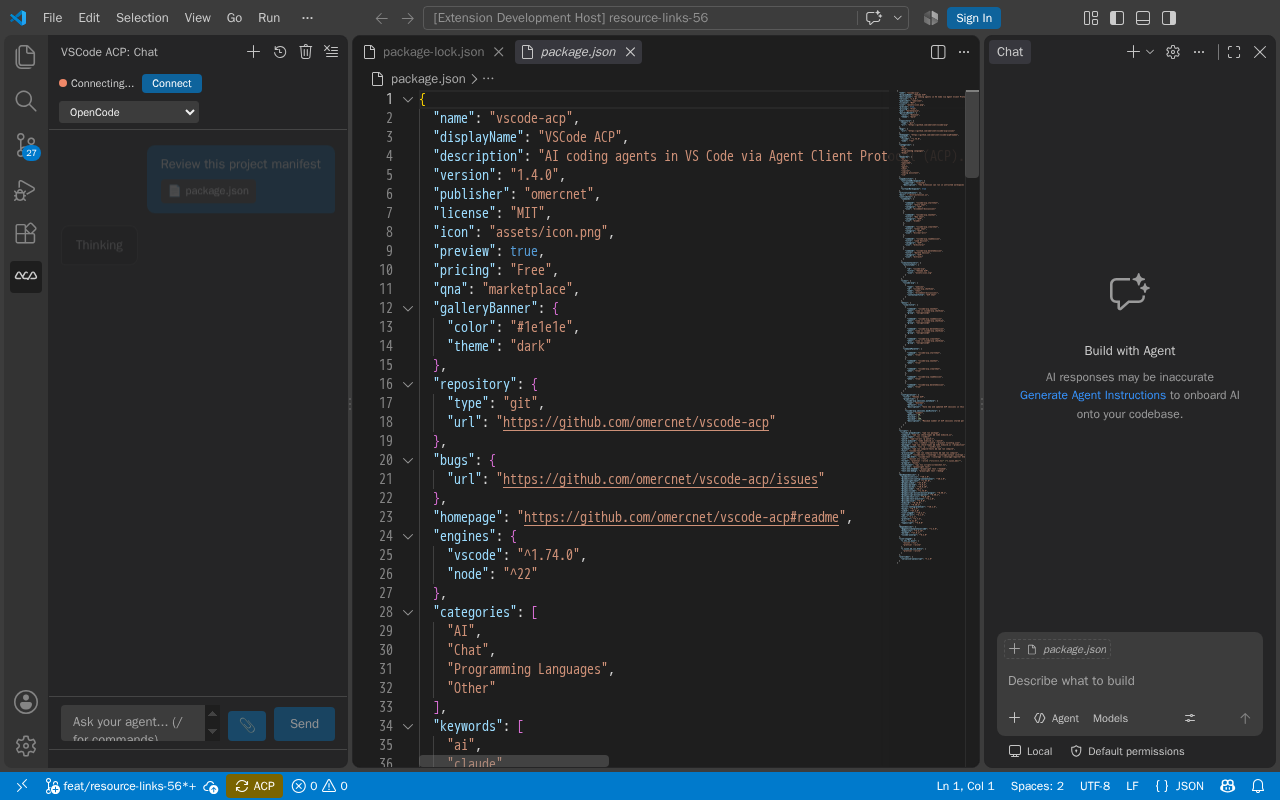
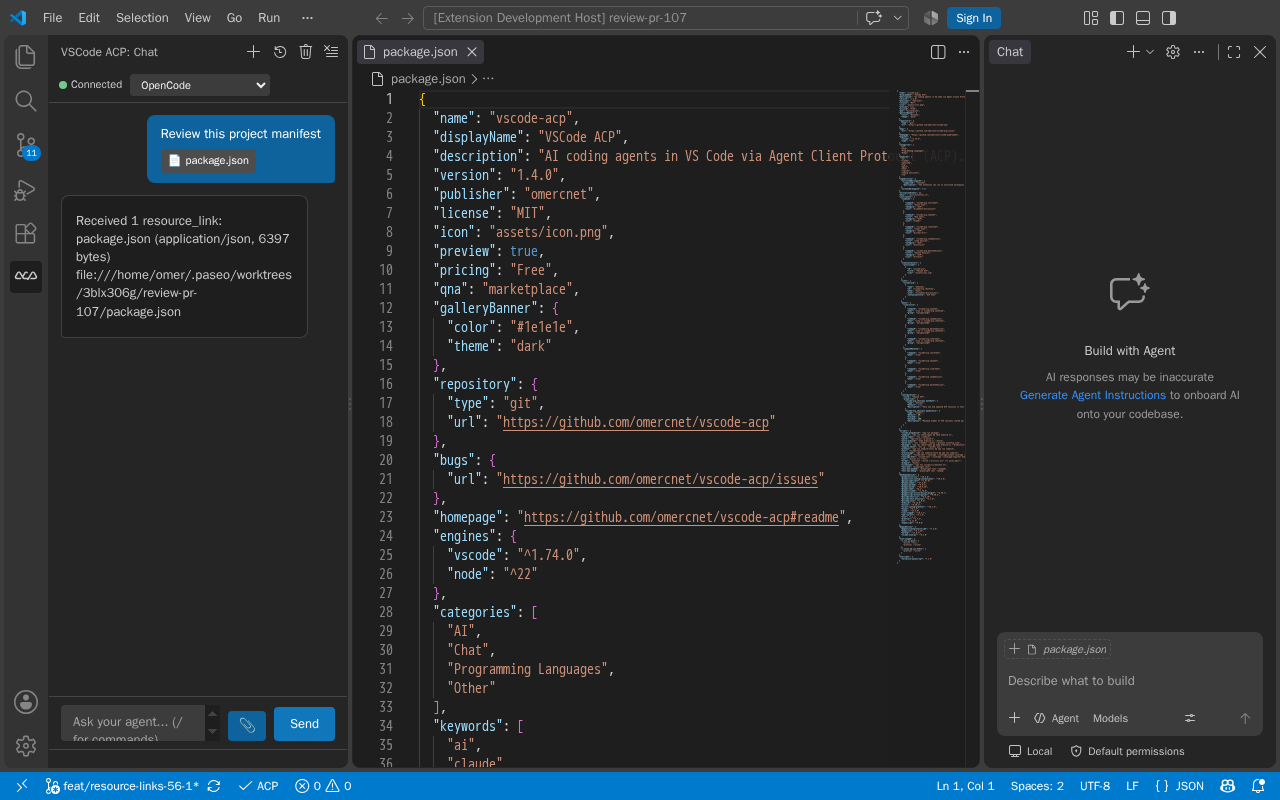
fix(chat): drop attachment draft when the composer reloads
The extension host kept `pendingAttachments` after the composer webview was
recreated, so a reloaded chat showed no chips while the host still counted the
orphaned files against the 10-file budget: reselecting the same file was
silently rejected as a duplicate ("1 file was not attached.") and a full draft
locked attachments out entirely until the next send or new chat.

Clear the draft when a freshly loaded webview announces `ready`.

Also replace the disconnected attachment e2e (which produced screenshots of a
"Disconnected"/"Connecting..." chat and never reached the agent) with a test
that runs against a real ACP agent in the Extension Development Host, asserts
the exact `session/prompt` wire blocks (text first, then `resource_link` with
canonical file URI, name, MIME type and byte size, no file contents), and
regenerates both screenshots from a connected session with the agent's
acknowledgement visible.

diff --git a/e2e/resource-link.spec.ts b/e2e/resource-link.spec.ts
@@ -1,0 +1,257 @@
+import {
+  test,
+  expect,
+  _electron as electron,
+  type Page,
+} from "@playwright/test";
+import { mkdir, readFile, rm, writeFile } from "fs/promises";
+import { delimiter, join } from "path";
+import {
+  cmdOrCtrl,
+  findVSCodeExecutable,
+  PROJECT_ROOT,
+  VSCODE_TEST_DIR,
+} from "./utils";
+
+const SCREENSHOTS_DIR = join(PROJECT_ROOT, "screenshots");
+const DEMO_DIR = join(VSCODE_TEST_DIR, "resource-link-demo");
+const USER_DATA_DIR = join(VSCODE_TEST_DIR, "user-data-resource-link");
+const WIRE_PATH = join(DEMO_DIR, "wire.json");
+const BIN_DIR = join(DEMO_DIR, "bin");
+const AGENT_PATH = join(BIN_DIR, "opencode");
+
+/**
+ * Minimal ACP agent that records every `session/prompt` payload it receives
+ * and echoes the resource links back, so the webview shows a real
+ * agent acknowledgement of the attachment rather than a pending spinner.
+ */
+const AGENT_SOURCE = `#!/usr/bin/env node
+const fs = require("fs");
+const wirePath = process.env.VSCODE_ACP_WIRE_LOG;
+const send = (message) => process.stdout.write(JSON.stringify(message) + "\\n");
+const update = (sessionId, update) => send({ jsonrpc: "2.0", method: "session/update", params: { sessionId, update } });
+let buffer = "";
+process.stdin.on("data", (chunk) => {
+  buffer += chunk;
+  const lines = buffer.split("\\n");
+  buffer = lines.pop() || "";
+  for (const line of lines) {
+    if (!line.trim()) continue;
+    const message = JSON.parse(line);
+    const params = message.params || {};
+    if (message.method === "initialize") {
+      send({ jsonrpc: "2.0", id: message.id, result: { protocolVersion: 1, agentCapabilities: {} } });
+    } else if (message.method === "session/new") {
+      send({ jsonrpc: "2.0", id: message.id, result: { sessionId: "resource-link-demo", modes: null } });
+    } else if (message.method === "session/prompt") {
+      const prompt = params.prompt || [];
+      const log = fs.existsSync(wirePath) ? JSON.parse(fs.readFileSync(wirePath, "utf8")) : [];
+      log.push(prompt);
+      fs.writeFileSync(wirePath, JSON.stringify(log, null, 2));
+      const links = prompt.filter((block) => block.type === "resource_link");
+      const reply = links.length
+        ? "Received " + links.length + " resource_link: " + links.map((link) => link.name + " (" + link.mimeType + ", " + link.size + " bytes) " + link.uri).join("; ")
+        : "Received no resource links";
+      update(params.sessionId, { sessionUpdate: "agent_message_chunk", messageId: "agent-1", content: { type: "text", text: reply } });
+      send({ jsonrpc: "2.0", id: message.id, result: { stopReason: "end_turn" } });
+    } else if (message.id !== undefined) {
+      send({ jsonrpc: "2.0", id: message.id, result: {} });
+    }
+  }
+});
+`;
+
+async function launchHost() {
+  const settingsDir = join(USER_DATA_DIR, "User");
+  await mkdir(settingsDir, { recursive: true });
+  await writeFile(
+    join(settingsDir, "settings.json"),
+    JSON.stringify({
+      "window.titleBarStyle": "custom",
+      "workbench.colorTheme": "Default Dark+",
+      "task.allowAutomaticTasks": "off",
+    })
+  );
+  const executablePath = await findVSCodeExecutable();
+  return electron.launch({
+    executablePath,
+    args: [
+      `--extensionDevelopmentPath=${PROJECT_ROOT}`,
+      `--user-data-dir=${USER_DATA_DIR}`,
+      "--disable-gpu-sandbox",
+      "--no-sandbox",
+      "--disable-workspace-trust",
+      "--skip-release-notes",
+      "--skip-welcome",
+      "--disable-telemetry",
+      "--window-position=-2000,-2000",
+      PROJECT_ROOT,
+    ],
+    timeout: 60000,
+    env: {
+      ...process.env,
+      PATH: `${BIN_DIR}${delimiter}${process.env.PATH ?? ""}`,
+      VSCODE_ACP_TEST_AGENT_COMMAND: AGENT_PATH,
+      VSCODE_ACP_WIRE_LOG: WIRE_PATH,
+      VSCODE_SKIP_PRELAUNCH: "1",
+    },
+  });
+}
+
+async function focusChat(window: Page) {
+  await window.waitForLoadState("domcontentloaded");
+  await window.setViewportSize({ width: 1280, height: 800 });
+  await window.waitForTimeout(3000);
+  await window.keyboard.press(`${cmdOrCtrl()}+Shift+P`);
+  await window.waitForTimeout(500);
+  await window.keyboard.type("ACP: Start Chat");
+  await window.waitForTimeout(300);
+  await window.keyboard.press("Enter");
+  await window.waitForTimeout(3000);
+  return window
+    .frameLocator("iframe.webview")
+    .first()
+    .frameLocator("#active-frame");
+}
+
+async function openFileInEditor(window: Page, name: string) {
+  await window.keyboard.press(`${cmdOrCtrl()}+P`);
+  await window.waitForTimeout(500);
+  await window.keyboard.type(name);
+  await window.waitForTimeout(800);
+  await window.keyboard.press("Enter");
+  await window.waitForTimeout(1000);
+}
+
+async function attachFromQuickPick(window: Page, label: string) {
+  const quickPick = window.locator(".quick-input-widget");
+  await expect(quickPick).toBeVisible({ timeout: 10000 });
+  const item = quickPick.getByLabel(label, { exact: false }).first();
+  await expect(item).toBeVisible({ timeout: 10000 });
+  await item.click();
+  await window.keyboard.press("Enter");
+}
+
+test("sends a selected file as a resource_link block on the ACP wire", async ({}) => {
+  await rm(DEMO_DIR, { recursive: true, force: true });
+  await mkdir(BIN_DIR, { recursive: true });
+  await mkdir(SCREENSHOTS_DIR, { recursive: true });
+  await writeFile(AGENT_PATH, AGENT_SOURCE, { mode: 0o755 });
+
+  const host = await launchHost();
+  try {
+    const window = await host.firstWindow();
+    const frame = await focusChat(window);
+    await expect(frame.locator("#connect-btn")).toBeHidden();
+
+    await openFileInEditor(window, "package.json");
+    await window.keyboard.press(`${cmdOrCtrl()}+Shift+P`);
+    await window.waitForTimeout(500);
+    await window.keyboard.type("VSCode ACP: Focus on Chat View");
+    await window.waitForTimeout(300);
+    await window.keyboard.press("Enter");
+    await window.waitForTimeout(1500);
+
+    await frame.locator("#attach-btn").click();
+    await attachFromQuickPick(window, "package.json");
+
+    await expect(
+      frame.locator("#attachments-bar .attachment-chip-name")
+    ).toHaveText("package.json", { timeout: 10000 });
+    await expect(window.locator(".quick-input-widget")).toBeHidden();
+    await window.waitForTimeout(500);
+    await window.screenshot({
+      path: join(SCREENSHOTS_DIR, "resource-link-selected.png"),
+    });
+
+    await frame.locator("#input").fill("Review this project manifest");
+    await frame.locator("#send").click();
+
+    await expect(
+      frame.locator(".message.user .attachment-chip-name")
+    ).toHaveText("package.json", { timeout: 10000 });
+    await expect(
+      frame.locator(".message.assistant").filter({ hasText: "resource_link" })
+    ).toBeVisible({ timeout: 15000 });
+    await window.waitForTimeout(500);
+    await window.screenshot({
+      path: join(SCREENSHOTS_DIR, "resource-link-sent.png"),
+    });
+
+    const manifest = await readFile(join(PROJECT_ROOT, "package.json"), "utf8");
+    const wireText = await readFile(WIRE_PATH, "utf8");
+    const wire = JSON.parse(wireText) as Array<Array<Record<string, unknown>>>;
+    expect(wire).toHaveLength(1);
+    const [textBlock, linkBlock] = wire[0];
+    expect(textBlock).toEqual({
+      type: "text",
+      text: "Review this project manifest",
+    });
+    expect(linkBlock.type).toBe("resource_link");
+    expect(linkBlock.name).toBe("package.json");
+    expect(linkBlock.mimeType).toBe("application/json");
+    expect(linkBlock.size).toBe(Buffer.byteLength(manifest));
+    expect(linkBlock.uri).toBe(
+      `file://${PROJECT_ROOT.split("/").map(encodeURIComponent).join("/")}/package.json`
+    );
+    // Only the reference travels: no file contents are embedded anywhere.
+    expect(wireText).not.toContain(JSON.parse(manifest).description);
+  } finally {
+    await host.close();
+  }
+});
+
+test("reattaching a file after the composer reloads still attaches it", async ({}) => {
+  await rm(WIRE_PATH, { force: true });
+  await mkdir(BIN_DIR, { recursive: true });
+  await writeFile(AGENT_PATH, AGENT_SOURCE, { mode: 0o755 });
+
+  const host = await launchHost();
+  try {
+    const window = await host.firstWindow();
+    const frame = await focusChat(window);
+    await expect(frame.locator("#connect-btn")).toBeHidden();
+
+    await openFileInEditor(window, "package.json");
+    await window.keyboard.press(`${cmdOrCtrl()}+Shift+P`);
+    await window.waitForTimeout(500);
+    await window.keyboard.type("VSCode ACP: Focus on Chat View");
+    await window.waitForTimeout(300);
+    await window.keyboard.press("Enter");
+    await window.waitForTimeout(1500);
+
+    await frame.locator("#attach-btn").click();
+    await attachFromQuickPick(window, "package.json");
+    await expect(
+      frame.locator("#attachments-bar .attachment-chip-name")
+    ).toHaveText("package.json", { timeout: 10000 });
+
+    // Force the composer webview to reload by switching the sidebar away and
+    // back. The chip disappears with the webview; the extension host draft
+    // must not keep holding the file.
+    await window.keyboard.press(`${cmdOrCtrl()}+Shift+P`);
+    await window.waitForTimeout(500);
+    await window.keyboard.type("Developer: Reload Webviews");
+    await window.waitForTimeout(500);
+    await window.keyboard.press("Enter");
+    await window.waitForTimeout(3000);
+
+    const reloadedFrame = window
+      .frameLocator("iframe.webview")
+      .first()
+      .frameLocator("#active-frame");
+    await reloadedFrame.locator("#attach-btn").click();
+    await attachFromQuickPick(window, "package.json");
+
+    // Whether or not the reloaded webview kept the chip, selecting the file
+    // again must leave exactly one live chip and raise no "not attached"
+    // notice from a draft the composer can no longer see.
+    await expect(
+      reloadedFrame.locator("#attachments-bar .attachment-chip-name")
+    ).toHaveText("package.json", { timeout: 10000 });
+    await expect(reloadedFrame.locator(".message.system")).toHaveCount(0);
+  } finally {
+    await host.close();
+    await rm(DEMO_DIR, { recursive: true, force: true });
+  }
+});

diff --git a/e2e/extension.spec.ts b/e2e/extension.spec.ts
@@ -5,9 +5,6 @@ import {
   getWebviewFrame,
   cmdOrCtrl,
 } from "./fixtures";
-import { join } from "path";
-
-const SCREENSHOTS_DIR = join(__dirname, "..", "screenshots");
 
 test.describe("VSCode ACP Extension", () => {
   test("extension activates and shows in activity bar", async ({ window }) => {
@@ -70,47 +67,5 @@ test.describe("VSCode ACP Extension", () => {
     await expect(deleteSessionCommand).toBeVisible({ timeout: 5000 });
 
     await window.keyboard.press("Escape");
-  });
-
-  test("selects and sends the current file as a resource link", async ({
-    window,
-  }) => {
-    await openACPView(window);
-    await window.getByRole("tab", { name: /Explorer/ }).click();
-    const packageFile = window.getByRole("treeitem", {
-      name: /^package\.json/,
-    });
-    await packageFile.click();
-    await window.waitForTimeout(1000);
-    await window.getByRole("tab", { name: "VSCode ACP" }).click();
-
-    const frame = getWebviewFrame(window);
-    await frame.locator("#attach-btn").click();
-
-    const quickPick = window.locator(".quick-input-widget");
-    await expect(quickPick).toBeVisible({ timeout: 5000 });
-    const packageItem = quickPick
-      .getByText("package.json", { exact: false })
-      .first();
-    await expect(packageItem).toBeVisible({ timeout: 5000 });
-    await packageItem.click();
-    await window.keyboard.press("Enter");
-
-    const selectedChip = frame.locator(
-      "#attachments-bar .attachment-chip-name"
-    );
-    await expect(selectedChip).toHaveText("package.json", { timeout: 5000 });
-    await window.screenshot({
-      path: join(SCREENSHOTS_DIR, "resource-link-selected.png"),
-    });
-
-    await frame.locator("#input").fill("Review this project manifest");
-    await frame.locator("#send").click();
-
-    const sentChip = frame.locator(".message.user .attachment-chip-name");
-    await expect(sentChip).toHaveText("package.json", { timeout: 5000 });
-    await window.screenshot({
-      path: join(SCREENSHOTS_DIR, "resource-link-sent.png"),
-    });
   });
 });

diff --git a/src/test/chat.test.ts b/src/test/chat.test.ts
@@ -2663,6 +2663,52 @@ suite("ChatViewProvider", () => {
       assert.deepStrictEqual(client.sentAttachments, []);
     });
 
+    test("drops the attachment draft when the composer webview reloads", async () => {
+      const provider = new ChatViewProvider(
+        mockExtensionUri,
+        acpClient as unknown as ACPClient,
+        memento as unknown as vscode.Memento
+      );
+      let receive: ((message: Record<string, unknown>) => void) | undefined;
+      const view = {
+        webview: {
+          options: {},
+          html: "",
+          cspSource: "vscode-webview:",
+          asWebviewUri: (uri: vscode.Uri) => uri,
+          postMessage: async () => true,
+          onDidReceiveMessage: (
+            handler: (message: Record<string, unknown>) => void
+          ) => {
+            receive = handler;
+            return { dispose: () => undefined };
+          },
+        },
+        onDidDispose: () => ({ dispose: () => undefined }),
+        show: () => undefined,
+      };
+      provider.resolveWebviewView(
+        view as unknown as vscode.WebviewView,
+        {} as vscode.WebviewViewResolveContext,
+        {} as vscode.CancellationToken
+      );
+      assert.ok(receive);
+
+      const internals = provider as unknown as {
+        pendingAttachments: Map<string, unknown>;
+      };
+      internals.pendingAttachments.set("att-orphan", {
+        id: "att-orphan",
+        uri: "file:///workspace/orphan.ts",
+        name: "orphan.ts",
+      });
+
+      receive({ type: "ready" });
+      await new Promise<void>((resolve) => setImmediate(resolve));
+
+      assert.strictEqual(internals.pendingAttachments.size, 0);
+    });
+
     test("does not consume attachment drafts while a session is replaying", async () => {
       const provider = new ChatViewProvider(
         mockExtensionUri,

diff --git a/src/views/chat.ts b/src/views/chat.ts
@@ -343,6 +343,10 @@ export class ChatViewProvider implements vscode.WebviewViewProvider {
           this.pendingAttachments.delete(message.attachmentId ?? "");
           break;
         case "ready":
+          // A freshly loaded composer starts with an empty attachment bar;
+          // drop any draft the previous webview instance owned so its files
+          // do not keep consuming the per-prompt budget invisibly.
+          this.clearPendingAttachments();
           this.postMessage({
             type: "connectionState",
             state: this.acpClient.getState(),
